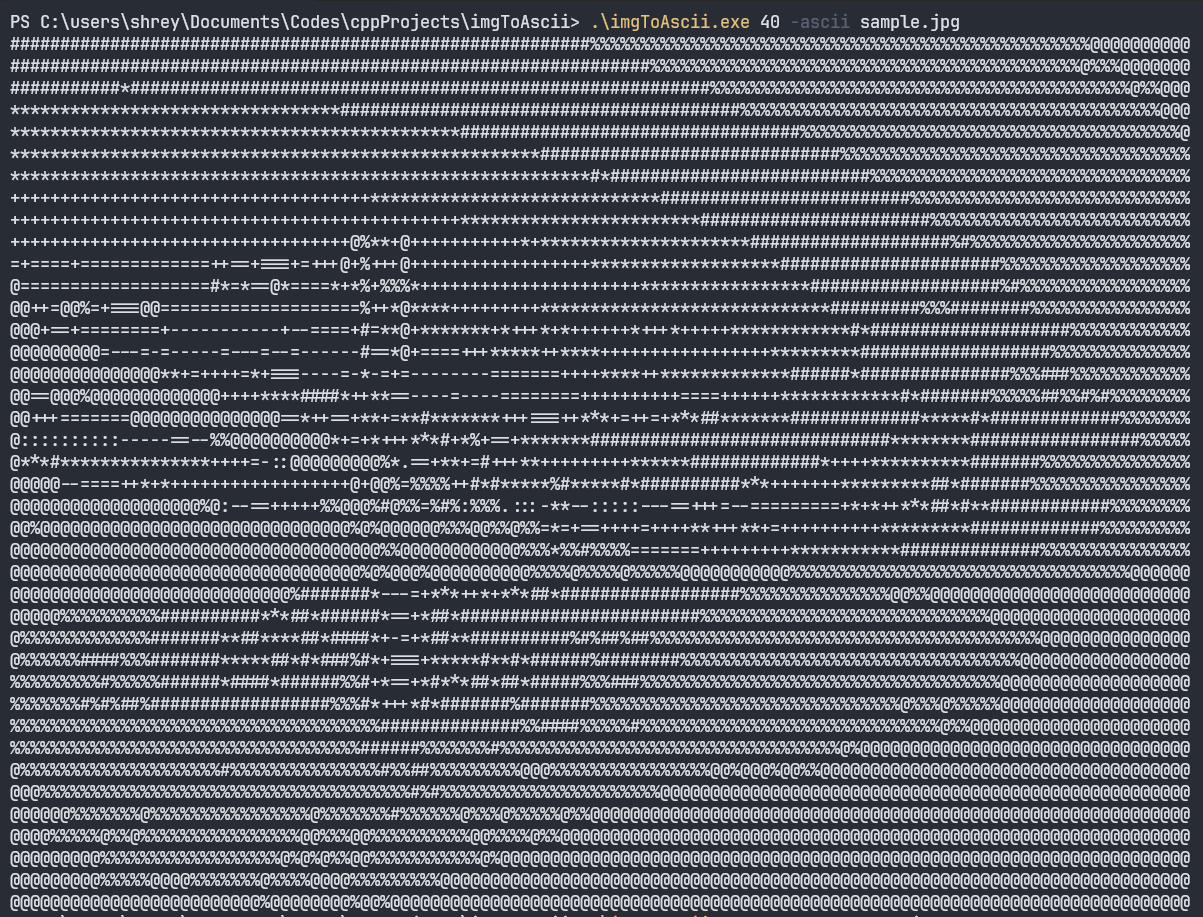
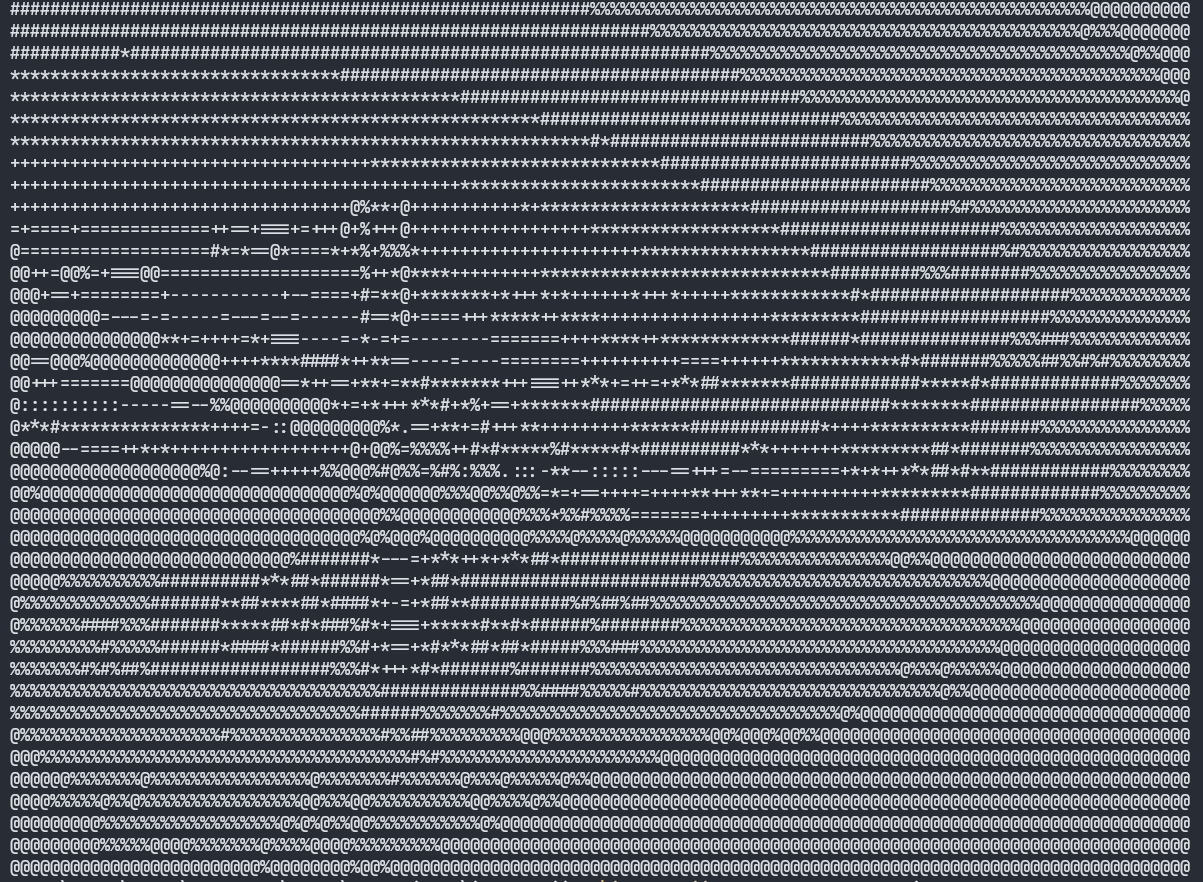
Fixed some presentation issues

diff --git a/imgToAscii.cpp b/imgToAscii.cpp
@@ -18,12 +18,12 @@ void rgb(char text, int r, int g, int b, int br = -1, int bg = -1, int bb = -1)
   cout << text << "\033[0m";
 }
 
-char asciiChars[] = "@%#*+=-:."; // characters from dense to sparse
+const char asciiChars[] = "@%#*+=-:."; // characters from dense to sparse
 
 int main(int argc, char **argv)
 {
   // Argument 1: new height
-  // Argument 2: mode (ascii/rgb)
+  // Argument 2: mode (-ascii / -rgb)
   // Argument 3: image path
 
   std::ios::sync_with_stdio(false);
@@ -31,23 +31,36 @@ int main(int argc, char **argv)
 
   if (argc != 4)
   {
-    cout << "Usage: ./imgInTerminal <new height> <mode(-ascii/-rgb)> <image path>\n";
+    cout << "\033[1;38;2;255;70;70m"
+         << "Usage:\n"
+         << "\033[0m"
+         << "Arguments:  <height> <mode> <image>\n"
+         << "e.g., ./imgToAscii 40 -ascii public/sample.jpg\n\n"
+         << "Arguments Description:\n"
+         << "  <height>   Output ASCII height\n"
+         << "  <mode>     `-ascii` | `-rgb`\n"
+         << "  <image>    Input image path (absolute / relative)\n";
+
     return 1;
   }
 
-  int newHeight = atoi(argv[1]);  
+  int newHeight = atoi(argv[1]);
   char *mode = argv[2];
   char *imagePath = argv[3];
-  
+
   int width, height, channels;
-  unsigned char *img = stbi_load(imagePath, &width, &height, &channels, 4);
-  
+  unsigned char *img = stbi_load(imagePath, &width, &height, &channels, 3);
+  channels = 3;
+
   if (img == nullptr)
   {
-    cout << "Failed to load image\n";
+    cout << "\033[1;38;2;255;70;70m"
+         << "Failed to load image\n"
+         << "Try again with path in double quotes \"\""
+         << "\033[0m";
     return 1;
   }
-  
+
   int newWidth = width * newHeight / height * 2; // Default height to width ratio for terminal characters is 2:1
   bool isAscii = (strcmp(mode, "-ascii") == 0);
   bool isRgb = (strcmp(mode, "-rgb") == 0);
@@ -62,14 +75,14 @@ int main(int argc, char **argv)
   {
     for (int y = 0; y < newWidth; y++)
     {
-      int index = (x * height / newHeight * width + y * width / newWidth) * 4;
+      int index = ((x * height / newHeight) * width + (y * width / newWidth)) * channels;
 
       int r = img[index + 0];
       int g = img[index + 1];
       int b = img[index + 2];
       if (isAscii)
       {
-        int gray = 0.299 * r + 0.587 * g + 0.114 * b;
+        int gray = (299 * r + 587 * g + 114 * b) / 1000;
         int charIndex = gray * sizeof(asciiChars) / 256;
         cout << asciiChars[charIndex];
       }

diff --git a/README.md b/README.md
@@ -33,11 +33,23 @@ g++ imgToAscii.cpp -o imgToAscii -O2 -Wall
 ```
 
 ### Alternative: Download the prebuilt executable
-If you want to try the tool without building:
 
 1. Go to **Releases**
-2. Download `imgToAscii.exe`
-3. Run it from PowerShell or Command Prompt.
+2. Download the suitable executable for your OS:
+    - **Windows**: `imgToAscii-windows.exe`
+    - **Linux**: `imgToAscii-linux`
+3. Place the executable in your desired directory, and rename it to `imgToAscii` and give it execute permissions if necessary.
+
+You can also use the following commands to download directly:
+- **Windows**:
+  ```bash
+  wget "https://github.com/Jais-Shreyas/imgToAscii/releases/download/v1.0.0/imgToAscii-windows.exe" -O imgToAscii.exe
+  ```
+- **Linux**:
+  ```bash
+  wget "https://github.com/Jais-Shreyas/imgToAscii/releases/download/v1.0.0/imgToAscii-linux" -O imgToAscii
+  chmod +x imgToAscii
+  ```
 
 ## Usage
 
@@ -54,27 +66,34 @@ If you want to try the tool without building:
 | `<image_path>`  | Path to the input image (relative or absolute).                              |
 
 ## Examples
+### Source Image
+<img src="public/sample.jpg" />
 
 ### Grayscale ASCII
 ```bash
 ./imgToAscii 40 -ascii public/sample.jpg
 ```
-<img src="public/SampleAscii40.png" width="600"/>
+<img src="public/SampleAscii40.png" />
+<hr>
 
 ### Colored ASCII (RGB)
 ```bash
 ./imgToAscii 40 -rgb public/sample.jpg
 ```
-<img src="public/SampleRGB40.png" width="600"/>
+<img src="public/SampleRGB40.png" />
+<hr>
 
 ### High-resolution ASCII (for zoomed-out terminals)
 ```bash
 ./imgToAscii 400 -ascii public/sample.jpg
 ```
-<img src="public/SampleAscii400.png" width="600"/>
+<img src="public/SampleAscii400.png" />
+<hr>
 
 ### High-resolution RGB
 ```bash
 ./imgToAscii 400 -rgb public/sample.jpg
 ```
-<img src="public/SampleRGB400.png" width="600"/>
+<img src="public/SampleRGB400.png" />
+
+<hr>
